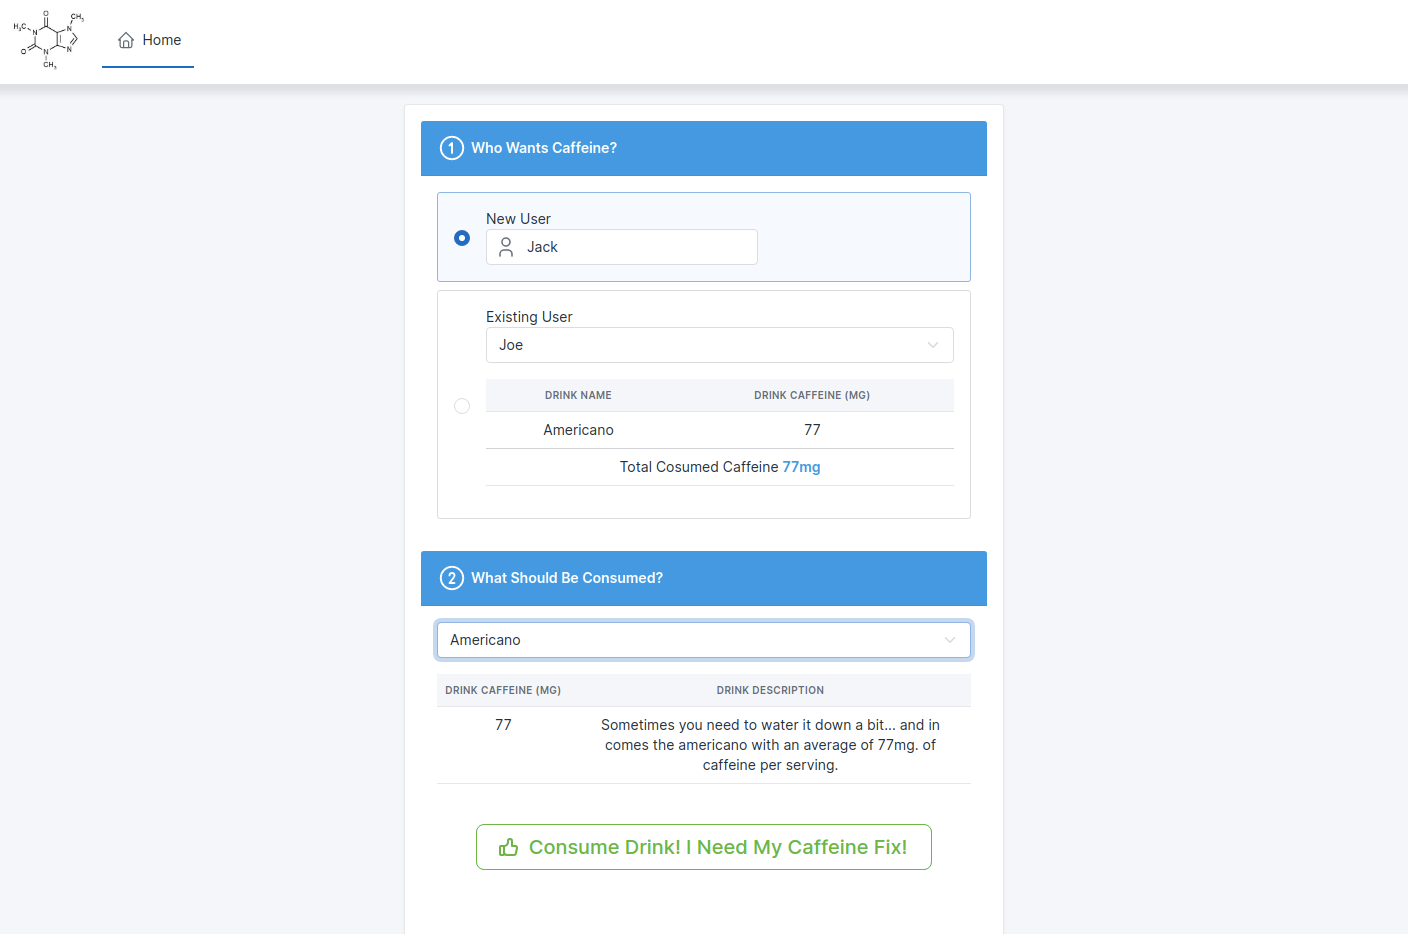
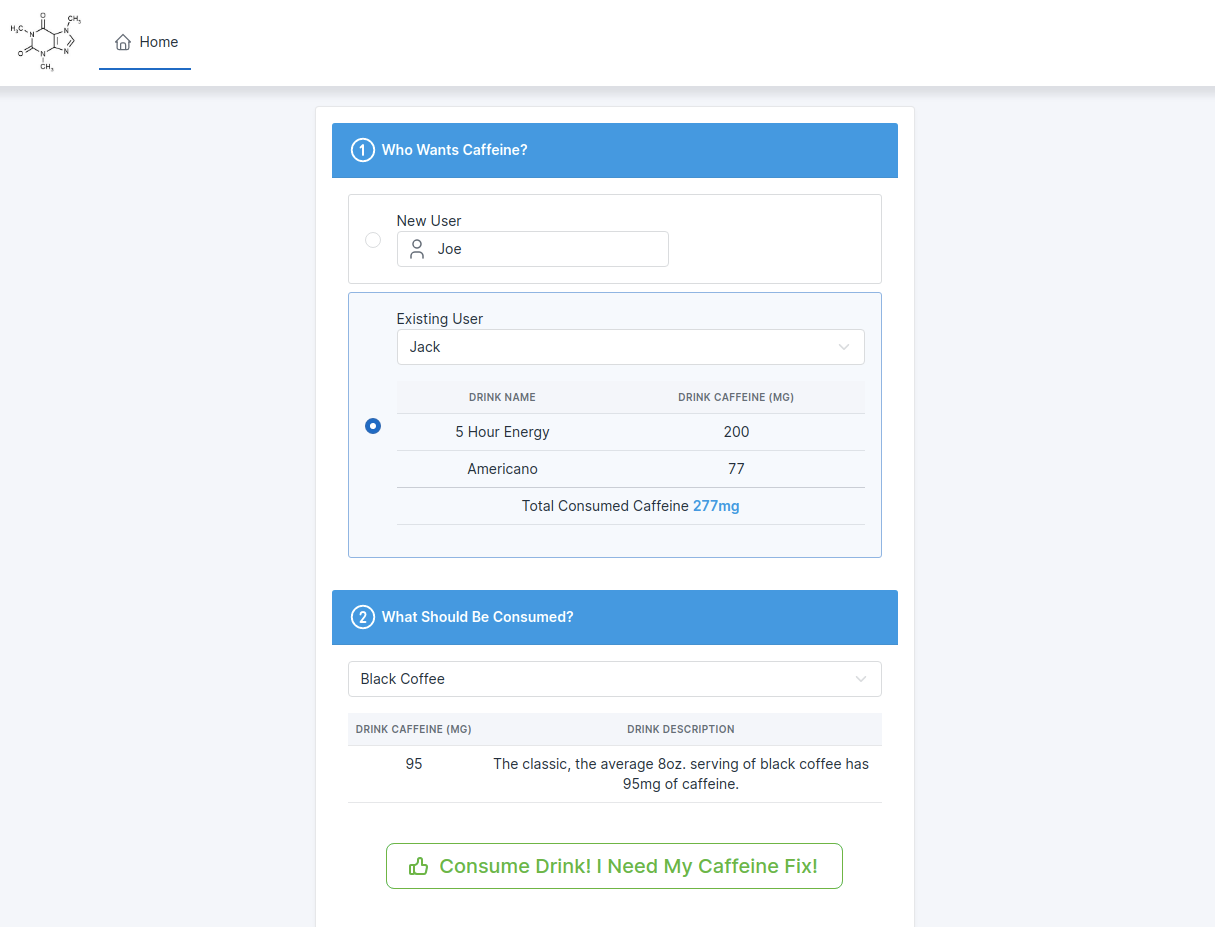
Updated README site image. Fixed spelling mistake in code and display.

diff --git a/Code/Site/src/App/container/page/home.js b/Code/Site/src/App/container/page/home.js
@@ -141,12 +141,12 @@ class Home extends Component {
                                 .then(
                                     (response) => {
                                         
-                                        let totalCosumedCaffeine = 0,
+                                        let totalConsumedCaffeine = 0,
                                             consumedTableRows = '';
 
                                         response.user_drinks.forEach(
                                             (userDrink) => {
-                                                totalCosumedCaffeine += userDrink.drink.caffeine;
+                                                totalConsumedCaffeine += userDrink.drink.caffeine;
 
                                                 consumedTableRows += `<tr>
                                                     <td>` + userDrink.drink.name + `</td>
@@ -168,8 +168,8 @@ class Home extends Component {
                                                     ` + consumedTableRows + `
                                                     <tr>
                                                         <td colspan="2">
-                                                            Total Cosumed Caffeine
-                                                            <span class="text-info font-weight-bold">` + totalCosumedCaffeine + `mg</span>
+                                                            Total Consumed Caffeine
+                                                            <span class="text-info font-weight-bold">` + totalConsumedCaffeine + `mg</span>
                                                         </td>
                                                     </tr>
                                                 </tbody>
